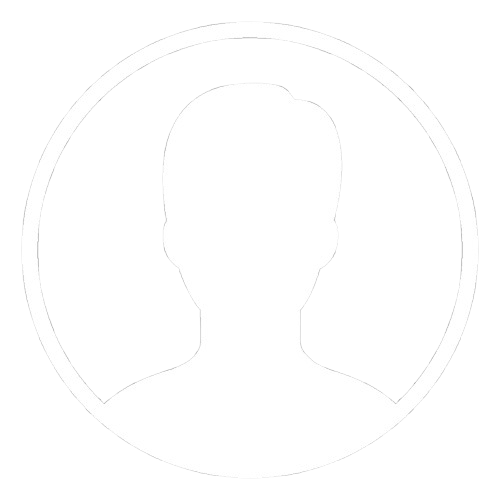
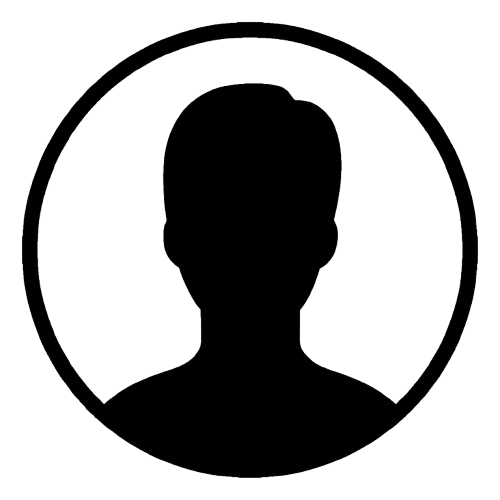
Updated

diff --git a/frontend/src/components/Sidebar.jsx b/frontend/src/components/Sidebar.jsx
@@ -1,59 +1,82 @@
-import React from 'react';
-import { Link, useNavigate } from 'react-router-dom';
-import { Dashboard, Apartment, Business, LibraryBooks, People, LogoutOutlined, Settings } from '@mui/icons-material';
-import UserProfile from '../assets/UserProfile.png'
-import '../styles/SideBar.css'
+  import React from 'react';
+  import { Link, useNavigate } from 'react-router-dom';
+  import { Dashboard, Apartment, Business, LibraryBooks, People, LogoutOutlined, Settings, AccountCircle, AccountCircleOutlined } from '@mui/icons-material';
+  import UserProfile from '../assets/UserProfile.png'
+  import '../styles/SideBar.css'
+  import { Avatar } from '@mui/material';
 
-const SideBar = ({ setIsAuthenticated }) => {
-  const navigate = useNavigate();
-  const Logout = () => {
-    localStorage.removeItem('token');
-    setIsAuthenticated(false);
-    navigate('/');
-  }
-  return (
-    <div className='h-full w-enough hidden-print'>
-      <ul className='bg-maroon-500 h-full p-3 px-5 text-white w-full'>
-        <div className='flex items-center flex-col mt-8'>
-            <img src={UserProfile} className='h-24' />
-            <span className='mt-2'>Administrator</span>
-        </div>
-        <br />
-        <br />
-        <hr className='bg-white'/>
-        <br />
-        <li className='w-full flex items-center' >
-          <Dashboard/>
-          <span className='pl-4 p-2 px-0'><Link to="/dashboard">Dashboard</Link></span>
-        </li>
-        <li className='w-full flex items-center'>
-          <Business />
-          <span className='pl-4 p-2 px-0'><Link to="/admission_dashboard">Admission Management</Link></span>
-        </li>
-        <li className='w-full flex items-center'>
-          <LibraryBooks />
-          <span className='pl-4 p-2 px-0'><Link to="/course_management">Courses Management</Link></span>
-        </li>
-        <li className='w-full flex items-center'>
-          <Apartment />
-          <span className='pl-4 p-2 px-0'><Link to="/department_dashboard">Department Management</Link></span>
-        </li>
-        <li className='w-full flex items-center'>
-          <Settings />
-          <span className='pl-4 p-2 px-0'><Link to="/system_dashboard">System Management</Link></span>
-        </li>
-        <li className='w-full flex items-center'>
-          <People />
-          <span className='pl-4 p-2 px-0'><Link to="/account_dashboard">Accounts</Link></span>
-        </li>
-        <li className='w-full flex items-center'>
-          <LogoutOutlined />
-          <button className='pl-4 p-2 px-0' onClick={Logout}>Logout</button>
-        </li>
-      </ul>
+  const SideBar = ({ setIsAuthenticated }) => {
+    const navigate = useNavigate();
+    const Logout = () => {
+      localStorage.removeItem('token');
+      setIsAuthenticated(false);
+      navigate('/');
+    }
+    return (
+      <div className='h-full w-enough hidden-print'>
+        <ul className='bg-white h-full border-r-[3px] border-maroon-500 p-3 px-5 text-maroon-500 w-full gap-2 '>
+          <div className='flex items-center flex-col mt-8'>
+              <Avatar sx={{
+                width: 106,
+                height: 106,
+                border: '3px solid maroon', // thin border
+                color: 'maroon',
+                bgcolor: 'transparent'
+              }}/>
+              <span className='mt-4'>Administrator</span>
+          </div>
+          <br />
+          <hr className='bg-maroon-500'/>
+          <br />
+          <Link to="/dashboard">
+          <li className={`w-full flex items-center border border-maroon-500 px-2 rounded button-hover ${location.pathname === "/dashboard" ? "bg-maroon-500 text-white" : ""}`} >
+            <Dashboard/>
+            <span className='pl-4 p-2 px-0'>Dashboard</span>
+          </li>
+          </Link>
 
-    </div>
-  );
-};
+          <Link to="/admission_dashboard">
+          <li className={`w-full flex items-center border border-maroon-500 px-2 rounded m-2 mx-0 button-hover ${location.pathname === "/admission_dashboard" ? "bg-maroon-500 text-white" : ""}`}>
+            <Business />
+            <span className='pl-4 p-2 px-0'>Admission Management</span>
+          </li>
+          </Link>
 
-export default SideBar;
+          <Link to="/course_management">
+          <li className={`w-full flex items-center border border-maroon-500 px-2 rounded m-2 mx-0 button-hover ${location.pathname === "/course_management" ? "bg-maroon-500 text-white" : ""}`}>
+            <LibraryBooks />
+            <span className='pl-4 p-2 px-0'>Courses Management</span>
+          </li>
+          </Link>
+
+          <Link to="/department_dashboard">
+          <li className={`w-full flex items-center border border-maroon-500 px-2 rounded m-2 mx-0 button-hover ${location.pathname === "/department_dashboard" ? "bg-maroon-500 text-white" : ""}`}>
+            <Apartment />
+            <span className='pl-4 p-2 px-0 mr-2'>Department Management</span>
+          </li>
+          </Link>
+
+          <Link to="/system_dashboard">
+          <li className={`w-full flex items-center border border-maroon-500 px-2 rounded m-2 mx-0 button-hover ${location.pathname === "/system_dashboard" ? "bg-maroon-500 text-white" : ""}`}>
+            <Settings />
+            <span className='pl-4 p-2 px-0'>System Management</span>
+          </li>
+          </Link>
+
+          <Link to="/account_dashboard">
+          <li className={`w-full flex items-center border border-maroon-500 px-2 rounded m-2 mx-0 button-hover ${location.pathname === "/account_dashboard" ? "bg-maroon-500 text-white" : ""}`}>
+            <People />
+            <span className='pl-4 p-2 px-0'>Accounts</span>
+          </li>
+          </Link>
+          <li className='w-full flex items-center border border-maroon-500 px-2 rounded m-2 mx-0 cursor-pointer button-hover'>
+            <LogoutOutlined />
+            <button className='pl-4 p-2 px-0' onClick={Logout}>Logout</button>
+          </li>
+        </ul>
+
+      </div>
+    );
+  };
+
+  export default SideBar;

diff --git a/frontend/src/components/YearUpdateForm.jsx b/frontend/src/components/YearUpdateForm.jsx
@@ -33,39 +33,39 @@ const YearUpdateForm = () => {
   }, []);
 
   return (
-    <div className="max-w-3xl mx-auto p-6">
+    <div>
       <h2 className="text-2xl font-bold text-center mb-6">Year Update Form</h2>
-      <h3 className="text-lg font-semibold mb-4">Year Entries</h3>
-
-      <table className="w-full border-collapse shadow-md">
-        <thead className="bg-gray-100">
-          <tr>
-            <th className="p-3 border text-left text-gray-600">Year</th>
-            <th className="p-3 border text-left text-gray-600">Status</th>
-            <th className="p-3 border text-left text-gray-600">Activator</th>
-          </tr>
-        </thead>
-        <tbody>
-          {years.map((entry) => (
-            <tr key={entry.year_id} className="hover:bg-gray-50">
-              <td className="p-3 border">{entry.year_description}</td>
-              <td className="p-3 border">
-                {entry.status === 1 ? "Active" : "Inactive"}
-              </td>
-              <td className="p-3 border flex justify-center items-center">
-                <button
-                  onClick={() => toggleActivator(entry.year_id, entry.status)}
-                  className={`px-4 py-2 rounded-lg font-semibold text-white transition-all ${
-                    entry.status === 1 ? "bg-red-600 hover:bg-red-700" : "bg-green-600 hover:bg-green-700"
-                  }`}
-                >
-                  {entry.status === 1 ? "Deactivate" : "Activate"}
-                </button>
-              </td>
+      <div className="max-w-2xl mx-auto max-h-[450px] overflow-y-scroll">
+        <table className="w-full border-collapse shadow-md">
+          <thead className="bg-gray-100">
+            <tr>
+              <th className="p-3 border text-left text-gray-600">Year</th>
+              <th className="p-3 border text-left text-gray-600">Status</th>
+              <th className="p-3 border text-left text-gray-600">Activator</th>
             </tr>
-          ))}
-        </tbody>
-      </table>
+          </thead>
+          <tbody>
+            {years.map((entry) => (
+              <tr key={entry.year_id} className="hover:bg-gray-50">
+                <td className="p-3 border">{entry.year_description}</td>
+                <td className="p-3 border">
+                  {entry.status === 1 ? "Active" : "Inactive"}
+                </td>
+                <td className="p-3 border flex justify-center items-center">
+                  <button
+                    onClick={() => toggleActivator(entry.year_id, entry.status)}
+                    className={`px-4 py-2 rounded-lg font-semibold text-white transition-all ${
+                      entry.status === 1 ? "bg-red-600 hover:bg-red-700" : "bg-green-600 hover:bg-green-700"
+                    }`}
+                  >
+                    {entry.status === 1 ? "Deactivate" : "Activate"}
+                  </button>
+                </td>
+              </tr>
+            ))}
+          </tbody>
+        </table>
+      </div>
     </div>
   );
 };

diff --git a/frontend/src/components/CourseTagging.jsx b/frontend/src/components/CourseTagging.jsx
@@ -3,8 +3,6 @@ import axios from "axios";
 import { Box, Button, Grid, Typography, Table, TableBody, TableCell, TableHead, TableRow, Paper, TextField, MenuItem, Container } from "@mui/material";
 import LinearWithValueLabel from './LinearWithValueLabel';
 import { jwtDecode } from "jwt-decode";
-import FreeTuitionImage from "../assets/FreeTuition.png";
-import EaristLogo from "../assets/EaristLogo.png";
 
 const CourseTagging = () => {
 
@@ -44,6 +42,7 @@ const CourseTagging = () => {
     const interval = setInterval(updateDate, 1000);
     return () => clearInterval(interval);
   }, []);
+  
   const [courses, setCourses] = useState([]);
   const [enrolled, setEnrolled] = useState([]);
   const [studentNumber, setStudentNumber] = useState("");
@@ -77,7 +76,7 @@ const CourseTagging = () => {
       });
 
       setSubjectCounts(counts);
-      fetchSubjectCounts(selectedSection); 
+
     } catch (err) {
       console.error("Failed to fetch subject counts", err);
       
@@ -297,33 +296,9 @@ const CourseTagging = () => {
     setSelectedDepartment(departmentId);
   };
 
-  const containerStyle = {
-    width: "100%",
-    position: "fixed",
-    top: 0,
-    left: 0,
-    height: "100vh",
-
-    display: "flex",
-    alignItems: "flex-start",
-    justifyContent: "center",
-    padding: "20px",
-    boxSizing: "border-box",
-    marginTop: "50px",
-    color: "Black",
-    overflowY: "scroll",
-  };
-
-  const contentStyle = {
-    color: "black",
-    width: "100%",
-    maxWidth: "800px",
-    paddingBottom: "90px",
-  };
-
   return (
     <Container className="mt-8">
-      <Grid container spacing={2} justifyContent="center" textAlign="center">
+      <Grid container spacing={4} gap={2} justifyContent="center" textAlign="center" style={{backgroundColor: "white", padding: "1rem 0rem"}}>
         {departments.map((dept, index) => (
           <Grid key={dept.dprtmnt_id}>
             <Button
@@ -339,7 +314,7 @@ const CourseTagging = () => {
           </Grid>
         ))}
       </Grid>
-      <Box p={4} display="grid" gridTemplateColumns="1fr 1fr" gap={4}>
+      <Box p={4} display="grid" gridTemplateColumns="1fr 1fr" gap={4} style={{marginLeft: '-5rem', maxHeight: '500px', overflowY: "scroll", overflowX: "hidden", width: '80rem'}}>
         {/* Available Courses */}
         <Box component={Paper} p={2}>
           {/* Search Student */}

diff --git a/frontend/src/components/SchoolYearPanel.jsx b/frontend/src/components/SchoolYearPanel.jsx
@@ -65,6 +65,7 @@ const SchoolYearPanel = () => {
     };
 
     const getStatus = (activatorValue) => {
+        console.log(activatorValue)
         return activatorValue === 1 ? "Active" : "Inactive";
     };
 
@@ -110,6 +111,7 @@ const SchoolYearPanel = () => {
             </form>
 
             <h3 className="text-lg font-semibold mb-2">Saved School Years:</h3>
+            <div className="max-h-[250px] overflow-y-scroll">
             <table className="w-full border border-gray-300">
                 <thead>
                     <tr className="bg-gray-200">
@@ -123,11 +125,12 @@ const SchoolYearPanel = () => {
                         <tr key={index}>
                             <td className="p-2 border text-center">{`${sy.year_description}-${parseInt(sy.year_description) + 1}`}</td>
                             <td className="p-2 border text-center">{sy.semester_description}</td>
-                            <td className="p-2 border text-center">{getStatus(sy.activator)}</td>
+                            <td className="p-2 border text-center">{getStatus(sy.astatus)}</td>
                         </tr>
                     ))}
                 </tbody>
             </table>
+            </div>
         </div>
     );
 };

diff --git a/frontend/src/pages/AdmissionDashboard.jsx b/frontend/src/pages/AdmissionDashboard.jsx
@@ -4,6 +4,7 @@ import {Link} from 'react-router-dom';
 
 const AdmissionDashboardPanel = () => {
     return (
+    <div className="max-h-[600px] overflow-y-scroll">
         <div className="p-2 px-10 w-full grid grid-cols-3">
            
            <div className="relative">
@@ -87,7 +88,7 @@ const AdmissionDashboardPanel = () => {
                 </Link>
             </div>
 
-            <div className="relative">
+            <div className="relative mb-10">
                 <Link to={'/program_tagging'}>
                     <div className="bg-white p-4 border-4 rounded-lg border-solid border-maroon-500 absolute left-16 top-8 w-enough">
                         <CollectionsBookmark className="text-maroon-500 text-2xl"/>
@@ -96,7 +97,7 @@ const AdmissionDashboardPanel = () => {
                 </Link>
             </div>
         </div>
-
+    </div>
     )
 }
 

diff --git a/frontend/src/App.jsx b/frontend/src/App.jsx
@@ -80,9 +80,9 @@ import ScheduleFilterer from './pages/SchedulePlottingFilter';
             <Navbar isAuthenticated={isAuthenticated}/>
           </header>
 
-          <div className="min-h-screen flex">
+          <div className="flex">
             {isAuthenticated && (
-              <article className='min-w-[19rem] min-h-screen flex'>
+              <article className='min-w-[21rem] min-h-screen flex'>
                 <SideBar setIsAuthenticated={setIsAuthenticated} style={{height: '100%'}}/>
               </article>
             )}

diff --git a/backend/server.js b/backend/server.js
@@ -1402,7 +1402,7 @@ app.get('/get_semester', async (req, res) => {
 // GET SCHOOL YEAR (UPDATED!)
 app.get("/school_years", async (req, res) => {
   const query = `
-    SELECT sy.*, yt.year_description, s.semester_description
+    SELECT sy.*, yt.year_description, s.semester_description, 
     FROM active_school_year_table sy
     JOIN year_table yt ON sy.year_id = yt.year_id
     JOIN semester_table s ON sy.semester_id = s.semester_id

diff --git a/frontend/src/styles/SideBar.css b/frontend/src/styles/SideBar.css
@@ -1,3 +1,11 @@
 /* @import "tailwindcss"; */
+.button-hover:hover{
+    color: white;
+    background-color: maroon;
+    transition: 0.3s;
+}
 
-    
+.button-hover:focus{
+    color: white;
+    background-color: maroon;
+}

diff --git a/frontend/src/components/ChangeYearGradPer.jsx b/frontend/src/components/ChangeYearGradPer.jsx
@@ -61,6 +61,7 @@ const styles = {
     margin: '0 auto',
     backgroundColor: '#f9f9f9',
     borderRadius: '8px',
+    marginTop: '30px',
     boxShadow: '0 4px 10px rgba(0, 0, 0, 0.1)',
   },
   heading: {
